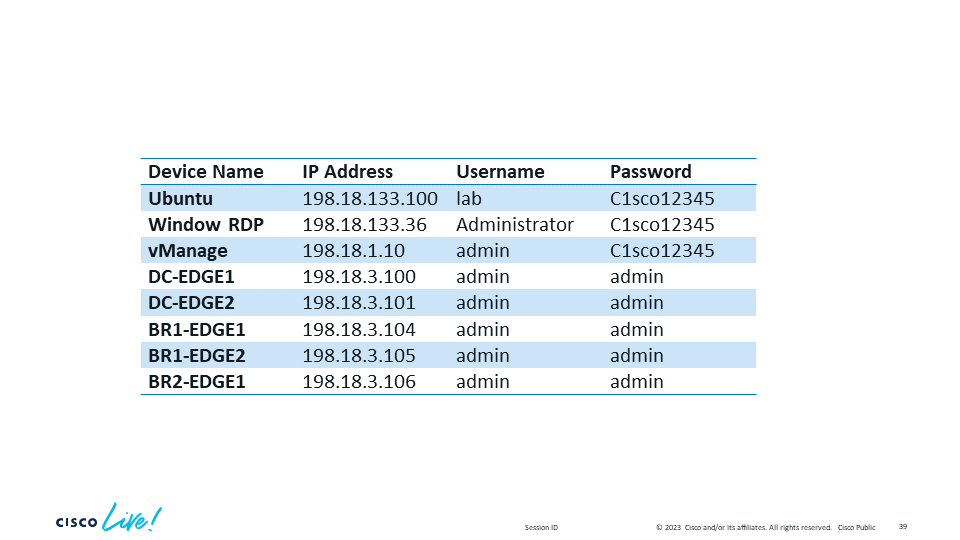
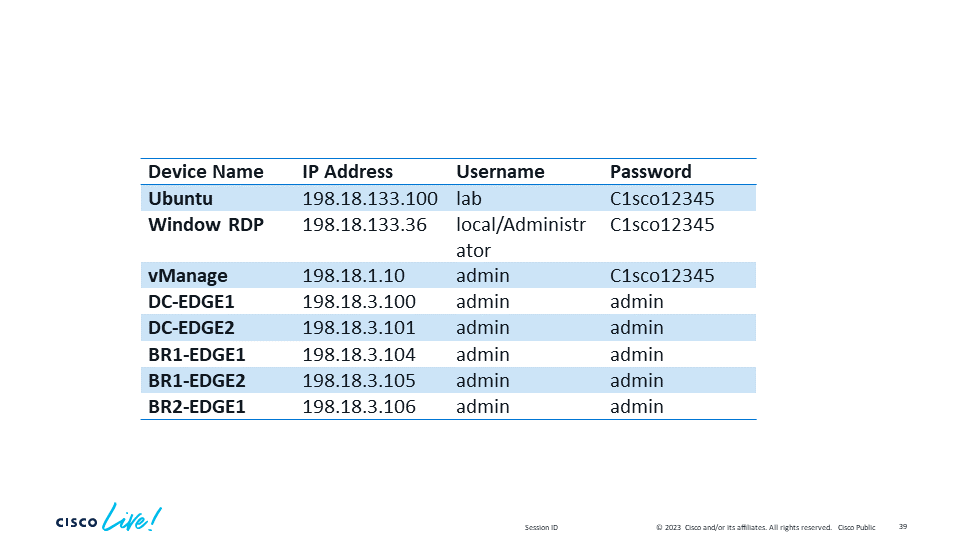
Minor update

Changed region(s): [[0.125, 0.3852, 0.8125, 0.7704]]

diff --git a/Task 3 Postman/Task3.md b/Task 3 Postman/Task3.md
@@ -20,13 +20,13 @@ A Postman environment is a list of variables that can be used to easily switch b
 
 A Postman collection is a group of API calls that define endpoints or resources that are available for that specific API. The collection also includes other parameters, headers, or authentication methods that are needed to successfully complete the call.
 
-Login to the windows machine using RDP and launch the Postman Application
+Login to the windows machine using RDP IP and Credentials in the Main Page and launch the Postman Application
 
 Before running any exercise, verify that your Postman configuration has SSL certificate verification disabled
 
 ![postman](/images/pm-1.png)
 
-A sample Postman Collection and a set of environment variables are already created to save time
+```A sample Postman Collection and a set of environment variables are already created to save time```
 
 ![postman](/images/pm-2.png)
 
@@ -39,8 +39,7 @@ The first step in interacting with an API is usually authentication. Authenticat
 In your Cisco-SD-WAN collection, you can see that the first API call that you have is called Authentication and is in a folder named Authentication.
 
 The Authentication call is a POST call.
-
- To define the endpoint for the authentication call, you use the environment variable {{vmanage}}. These values will be replaced with the ones you have defined in the environment variables
+To define the endpoint for the authentication call, you use the environment variable {{vmanage}}. These values will be replaced with the ones you have defined in the environment variables
 
 The resource that you are sending the API call to is j_security_check.
 
@@ -144,4 +143,6 @@ At the top of the code snippet, the requests library is imported, after which va
 The response variable contains the response of the POST request and at the end, the text method of the response object is displayed to the user.
 You can do the same for all the other calls you explored in this Lab and obtain the Python code for them. You can then combine them in scripts and applications for automation and network programmability purposes
 
-``` Explore the other calls in the collection at your leisure```
+```Explore the other calls in the collection at your leisure```
+
+* [Main Menu](/README.md/#table-of-content)

diff --git a/Task 5 Ansible Edge/Task5.md b/Task 5 Ansible Edge/Task5.md
@@ -445,3 +445,5 @@ Looking above – we can see a mix of failed and successful sessions.
 For the sessions which have failed, the credentials and the network operating system was missing.
 Please go ahead and edit the inventory file to actualize these parameters and run the playbook again.
 With that task complete, we have concluded the section of using Ansible for IOS-XE CLI interaction. Feel free to adjust the plays present to match up with further commands which may be relevant to your operational landscape and test them out.
+
+* [Main Menu](/README.md/#table-of-content)

diff --git a/Task 4 Python/Task4.md b/Task 4 Python/Task4.md
@@ -2165,3 +2165,5 @@ python3 vmanage_apis.py attached-devices --template 9ae531dd-beac-4b21-be95-99ab
 │ DC-EDGE1    │ 10.1.0.1    │       100 │ C8K-E75016E7-317F-9987-525B-11816F7A3155 │ vedge       │
 ╘═════════════╧═════════════╧═══════════╧══════════════════════════════════════════╧═════════════╛
 ```
+
+* [Main Menu](/README.md/#table-of-content)

diff --git a/Task 6 Ansible SDWAN/Task6.md b/Task 6 Ansible SDWAN/Task6.md
@@ -163,3 +163,5 @@ task path: /home/dcloud/Ansible-Lab/tasks/vManage_ft_facts.yml:6
 [WARNING]: Module did not set no_log for password
 ok: [localhost] => {"changed": false, "feature_templates": [{"attachedMastersCount": 1, "configType": "xml", "createdBy": "admin", "createdOn": 1669643778965, "deviceType": ["vedge-C8000V"], "devicesAttached": 2, "factoryDefault": false, "lastUpdatedBy": "admin", "lastUpdatedOn": 1669653516653, "resourceGroup": "global", "templateDefinition": {
 ```
+
+* [Main Menu](/README.md/#table-of-content)

diff --git a/Task 2 Swagger/Task2.md b/Task 2 Swagger/Task2.md
@@ -63,3 +63,5 @@ Administration > Manage users > User Groups
 ![postman](/images/sw8.png)
 
 ```Take some time and explore more GET calls and observe the request body and results```
+
+* [Main Menu](/README.md/#table-of-content)

diff --git a/Task 7 Monitoring/Task7.md b/Task 7 Monitoring/Task7.md
@@ -188,3 +188,5 @@ Data received from Webhook is:  {
 The data received corresponds to the alarms that were received by vManage
 
 ![postman](/images/wh4.png)
+
+* [Main Menu](/README.md/#table-of-content)

diff --git a/Task 1 Curl/Task1.md b/Task 1 Curl/Task1.md
@@ -93,3 +93,5 @@ curl --insecure \
      --cookie cookie.txt \
      | python -m json.tool
 ```
+
+* [Main Menu](/README.md/#table-of-content)
